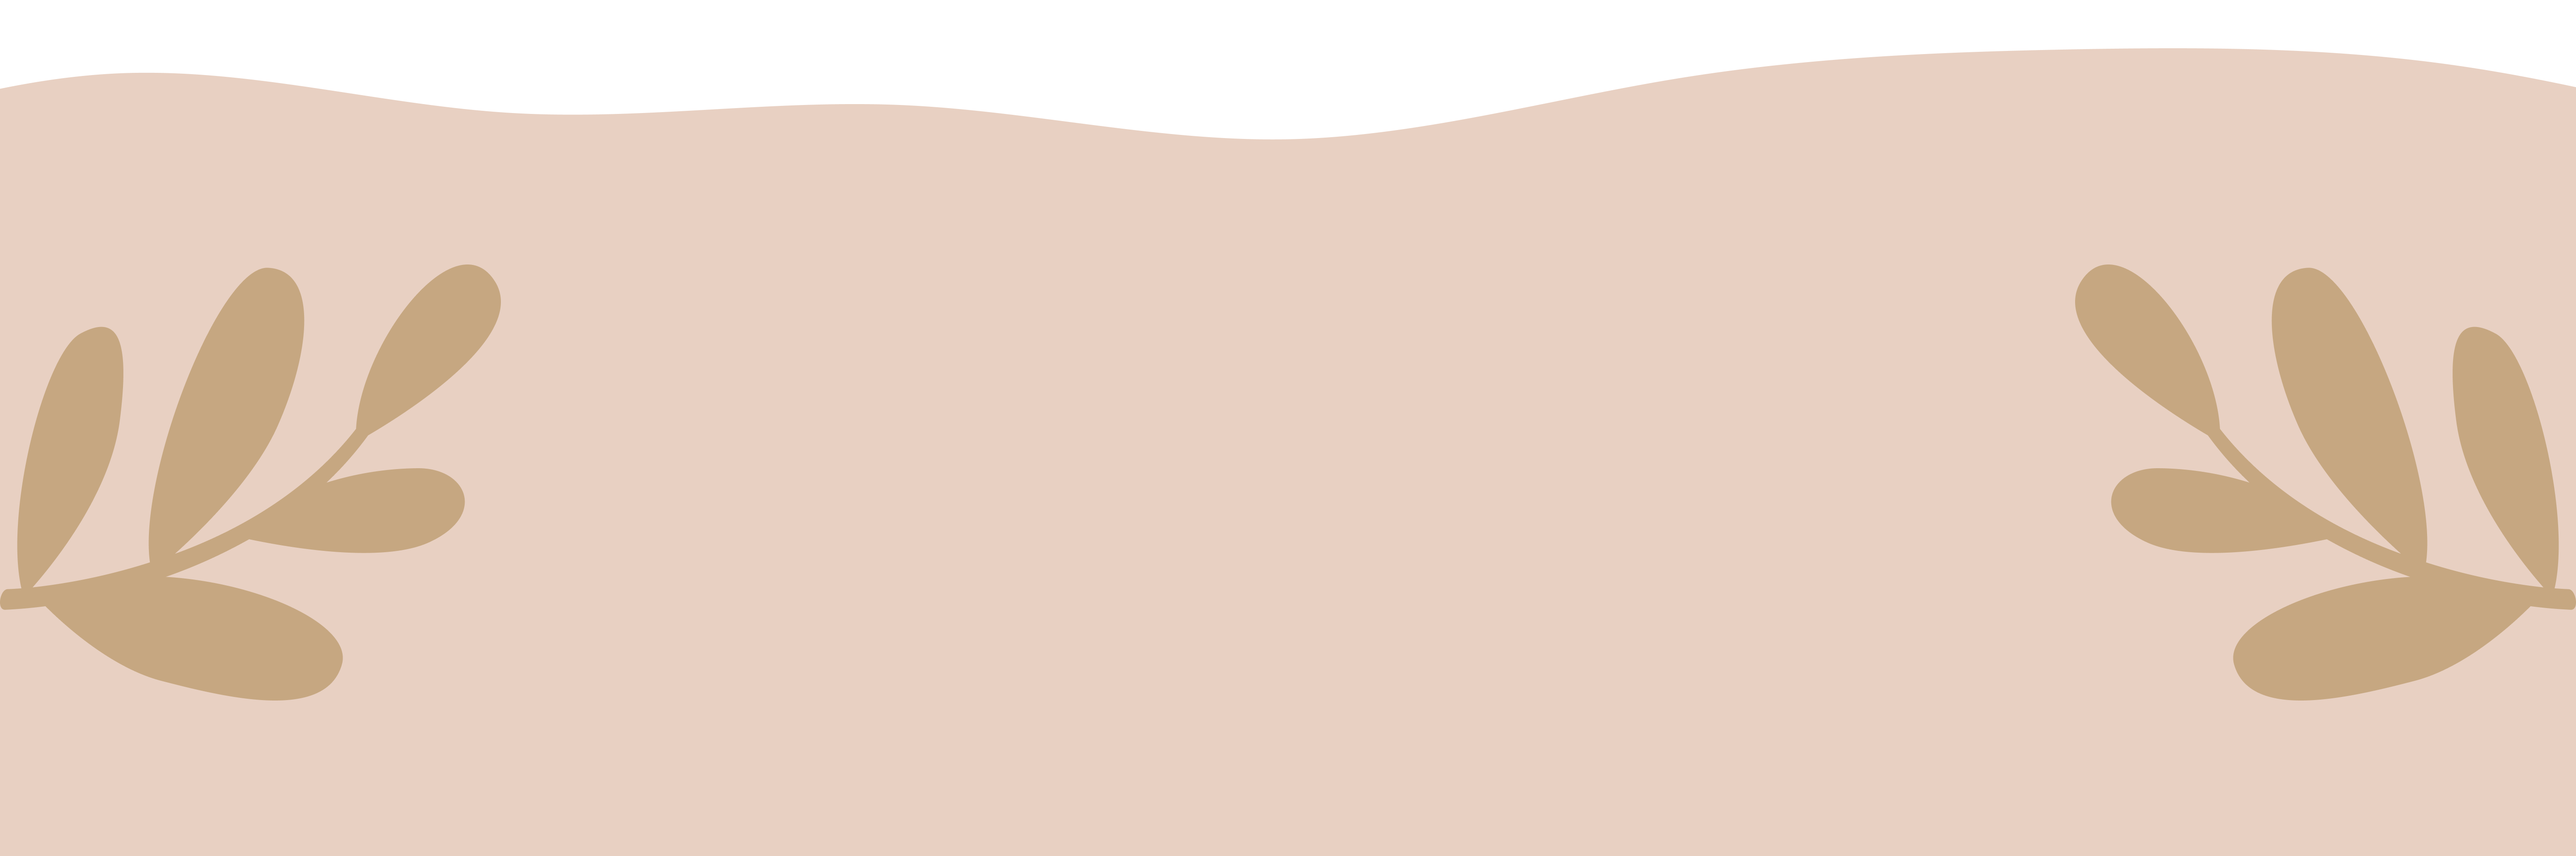
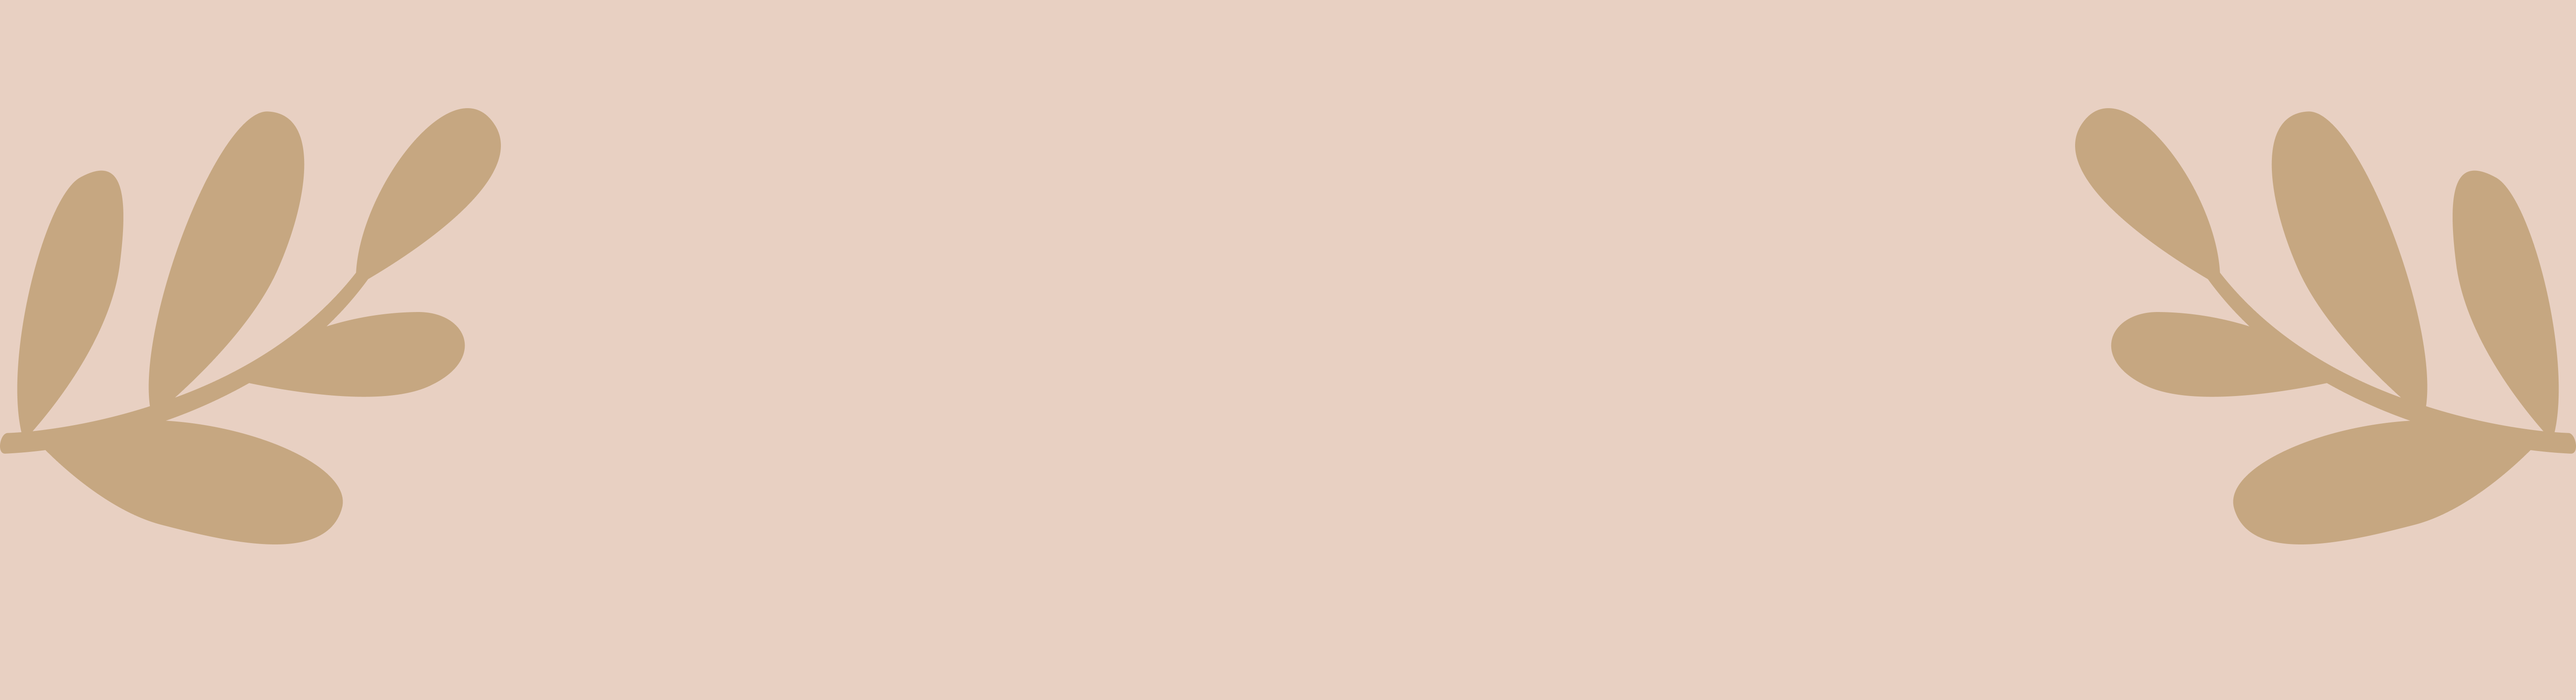
fix: fixing footer layout

Changed region(s): [[0.0, 0.0, 1.0, 0.1839], [0.7812, 0.1533, 1.0, 0.8276], [0.0, 0.1533, 0.2188, 0.8276]]

diff --git a/src/components/layout/BaseLayout/index.js b/src/components/layout/BaseLayout/index.js
@@ -1,17 +1,15 @@
 import React from "react";
-import NavigationBar from "@/components/common/NavigationBarLogin";
+import NavigationBar from "@/components/common/NavigationBar";
 import Modal from "@/components/common/Modal";
-import Alert from "@/components/common/Alert";
 import FooterBar from "@/components/common/FooterBar";
 
 const Layout = ({ children }) => {
   return (
     <>
-      <div className="bg-white">
+      <div>
         <NavigationBar />
-        <Modal title="Log Out" desc="Are you sure?" action="Log Out" />
+        {/* <Modal title="Log Out" desc="Are you sure?" action="Log Out" /> */}
         <main>{children}</main>
-        {/* <Alert alert="Save Changes" /> */} {/* jika ingin menampilkan alert */}
         <FooterBar />
       </div>
     </>

diff --git a/src/components/common/FooterBar/index.js b/src/components/common/FooterBar/index.js
@@ -29,11 +29,11 @@ const menu = [
 
 const FooterBar = () => {
   return (
-    <div className="hero w-sceen min-h-fit bg-[url('../../public/images/footer-bg.png')] bg-white">
+    <div className="hero bg-[url('../../public/images/footer-bg.png')]">
       <footer className="footer footer-center  ">
         <div className="grid grid-flow-col gap-4  "></div>
         <div>
-          <div className="pt-28">
+          <div>
             <Image src={logo} width={350} height={350} alt="" />
           </div>
           <div className="grid grid-flow-col gap-4">

diff --git a/src/components/pages/home/Why/index.js b/src/components/pages/home/Why/index.js
@@ -5,7 +5,7 @@ import Image from "next/image";
 function Why() {
   return (
     <div>
-      <div className=" hero container mx-auto bg-base-100">
+      <div className=" hero mx-auto bg-base-100">
         <div className="hero-content grid grid-cols-1 md:grid-cols-2">
           <div className=" grid-cols-12">
             <Image src={why} alt="" />

diff --git a/src/pages/_document.js b/src/pages/_document.js
@@ -2,7 +2,7 @@ import { Html, Head, Main, NextScript } from 'next/document'
 
 export default function Document() {
   return (
-    <Html lang="en" data-theme="mytheme">
+    <Html lang="en" data-theme="mytheme" className='bg-white'>
       <Head />
       <body>
         <Main />
